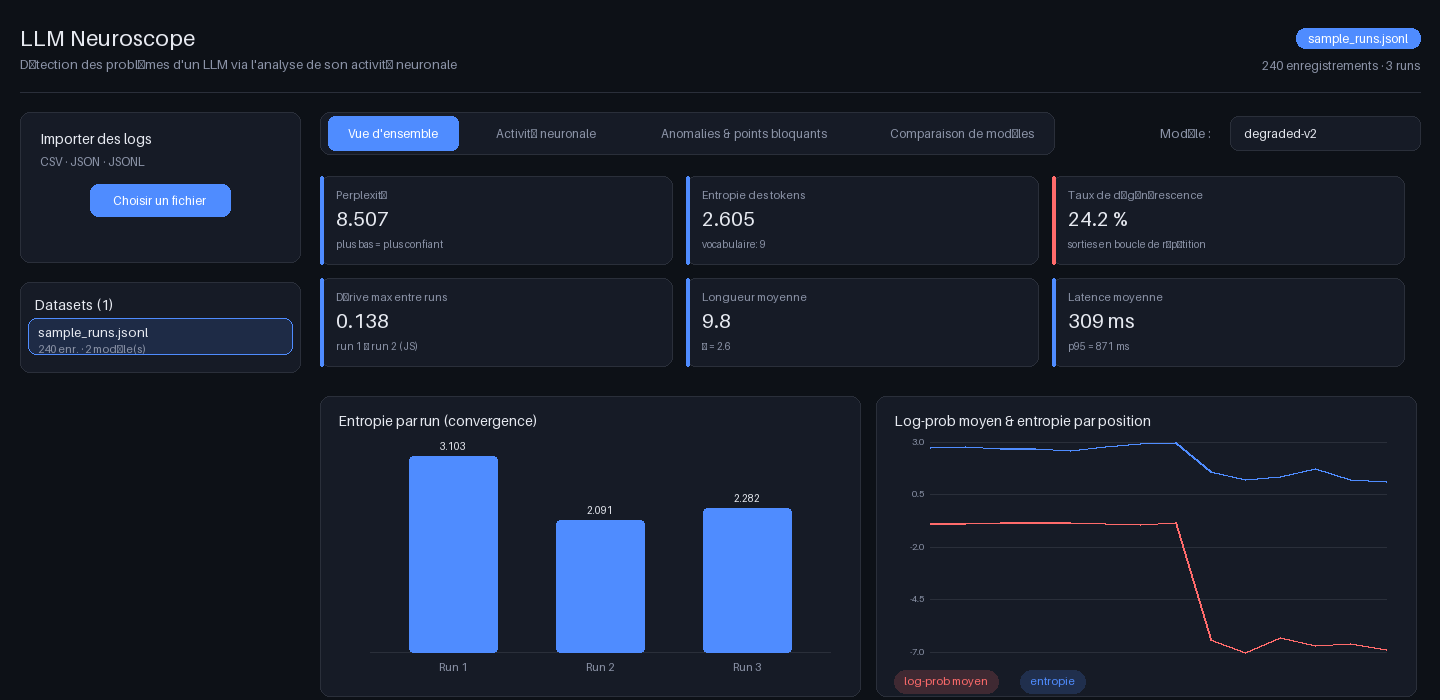
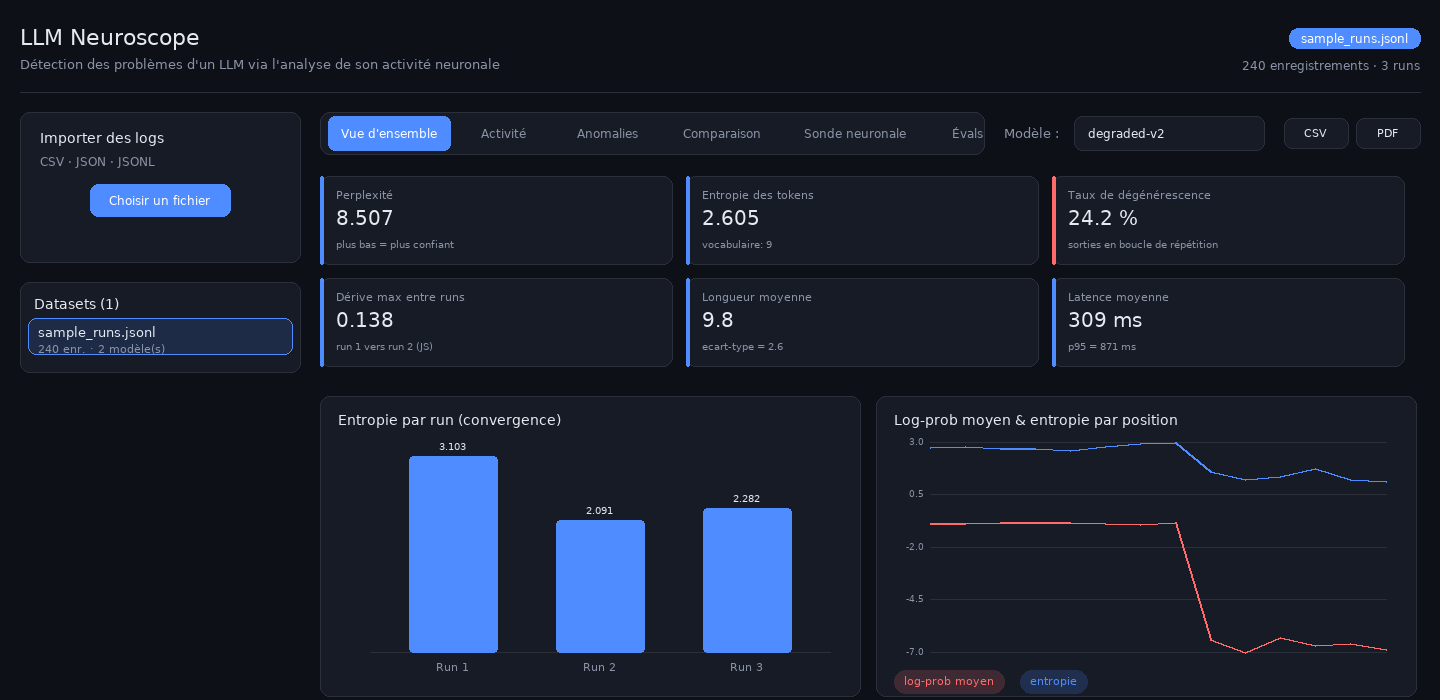
docs: captures d'écran à jour (6 vues) — sonde neuronale, évals, boutons d'export

diff --git a/scripts/render_ui_previews.py b/scripts/render_ui_previews.py
@@ -52,7 +52,17 @@ VERDICT_COLORS = {
 }
 
 
+try:
+    import reportlab
+
+    FONT_PATH = Path(reportlab.__file__).parent / "fonts" / "Vera.ttf"
+except Exception:
+    FONT_PATH = None
+
+
 def font(size):
+    if FONT_PATH and FONT_PATH.exists():
+        return ImageFont.truetype(str(FONT_PATH), size)
     return ImageFont.load_default(size)
 
 
@@ -161,9 +171,9 @@ def sidebar(ui, datasets, active_id):
 
 def tabs_bar(ui, active_index, model, models):
     x, y = 320, 112
-    tab_labels = ["Vue d'ensemble", "Activité neuronale", "Anomalies & points bloquants", "Comparaison de modèles"]
-    widths = [130, 160, 220, 200]
-    ui.panel(x, y, sum(widths) + 24, 42, radius=10)
+    tab_labels = ["Vue d'ensemble", "Activité", "Anomalies", "Comparaison", "Sonde neuronale", "Évals"]
+    widths = [122, 92, 100, 112, 138, 72]
+    ui.panel(x, y, sum(widths) + 28, 42, radius=10)
     cx = x + 8
     for index, (label, w) in enumerate(zip(tab_labels, widths)):
         if index == active_index:
@@ -172,7 +182,13 @@ def tabs_bar(ui, active_index, model, models):
         else:
             ui.text(cx + w / 2, y + 21, label, 12, MUTED, anchor="mm")
         cx += w + 8
-    select_x = W - PAD - 260
+    button_w, button_h = 64, 30
+    pdf_x = W - PAD - button_w
+    csv_x = pdf_x - button_w - 8
+    for bx, label in ((csv_x, "CSV"), (pdf_x, "PDF")):
+        ui.draw.rounded_rectangle([bx, y + 6, bx + button_w, y + 6 + button_h], radius=8, fill=hex_rgb(PANEL), outline=hex_rgb(BORDER))
+        ui.text(bx + button_w / 2, y + 6 + button_h / 2, label, 11, TEXT, anchor="mm")
+    select_x = csv_x - 280
     ui.text(select_x, y + 21, "Modèle :", 13, MUTED, anchor="lm")
     ui.panel(select_x + 70, y + 4, 190, 34, radius=8)
     ui.text(select_x + 84, y + 21, model, 12, anchor="lm")
@@ -269,12 +285,12 @@ def render_overview(data, datasets, ds_id, model):
             (
                 "Dérive max entre runs",
                 f"{a['drift']['max_js']:.3f}",
-                f"run {a['drift']['from_run']} → run {a['drift']['to_run']} (JS)"
+                f"run {a['drift']['from_run']} vers run {a['drift']['to_run']} (JS)"
                 if a["drift"]["to_run"]
                 else "aucune dérive mesurable",
                 WARN if a["drift"]["max_js"] > 0.2 else None,
             ),
-            ("Longueur moyenne", f"{a['length']['mean']:.1f}", f"σ = {a['length']['std']:.1f}", None),
+            ("Longueur moyenne", f"{a['length']['mean']:.1f}", f"ecart-type = {a['length']['std']:.1f}", None),
             ("Latence moyenne", f"{a['latency_ms']['mean']:.0f} ms", f"p95 = {a['latency_ms']['p95']:.0f} ms", None),
         ],
         top,
@@ -444,7 +460,7 @@ def render_compare(data, datasets, ds_id, model):
     ui.text(338, top + 16, "Comparaison de modèles", 14)
     ui.panel(1150, top + 12, 120, 30, radius=8)
     ui.text(1164, top + 27, comparison["model_a"], 11, anchor="lm")
-    ui.text(1282, top + 27, "→", 12, MUTED, anchor="lm")
+    ui.text(1282, top + 27, "vers", 12, MUTED, anchor="lm")
     ui.panel(1300, top + 12, 100, 30, radius=8)
     ui.text(1314, top + 27, comparison["model_b"], 11, anchor="lm")
 
@@ -458,7 +474,7 @@ def render_compare(data, datasets, ds_id, model):
         MUTED,
     )
 
-    headers = ["Métrique", comparison["model_a"], comparison["model_b"], "Δ", "Δ %", "Statut"]
+    headers = ["Métrique", comparison["model_a"], comparison["model_b"], "Écart", "Écart %", "Statut"]
     col_x = [338, 640, 830, 1020, 1110, 1230]
     row_y = top + 100
     for label, cx in zip(headers, col_x):
@@ -474,6 +490,214 @@ def render_compare(data, datasets, ds_id, model):
         pct = row["delta_pct"]
         ui.text(col_x[4], ry, f"{'+' if pct and pct > 0 else ''}{pct} %" if pct is not None else "—", 12)
         ui.badge(col_x[5], ry - 4, STATUS_LABELS[row["status"]], STATUS_COLORS[row["status"]])
+    return ui
+
+
+def render_probe(probe):
+    status = probe["status"]
+    activation = probe["activation"]
+    attention = probe["attention"]
+    attribution = probe["attribution"]
+    patching = probe["patching"]
+    generate = probe["generate"]
+    weights = probe["weights"]
+    ui = Ui(W, 1360)
+    header(ui, "sample_runs.jsonl", 240, 3)
+    sidebar(ui, probe["datasets"], probe["ds_id"])
+    tabs_bar(ui, 4, "stable-v1", ["stable-v1"])
+
+    top = 176
+    ui.panel(320, top, 540, 140)
+    ui.text(338, top + 16, "Modèle chargé", 14)
+    ui.badge(338, top + 42, status["backend"].upper(), ACCENT)
+    ui.badge(338 + 70, top + 42, "MODIFIABLE", GOOD)
+    ui.text(338, top + 84, status["model_name"], 13)
+    ui.text(338, top + 106, f"{status['n_layers']} couches · device {status['device']}", 11, MUTED)
+
+    ui.panel(876, top, 544, 140)
+    ui.text(894, top + 16, "Génération instrumentée", 14)
+    ui.panel(894, top + 40, 380, 30, radius=8)
+    ui.text(908, top + 55, generate["prompt"], 12, anchor="lm")
+    ui.draw.rounded_rectangle([1284, top + 40, 1400, top + 70], radius=8, fill=hex_rgb(ACCENT))
+    ui.text(1342, top + 55, "Générer", 12, "#ffffff", anchor="mm")
+    ui.text(894, top + 90, "".join(generate["tokens"]), 12)
+    ui.badge(894, top + 108, f"perplexité {generate['perplexity']}", ACCENT)
+
+    act_top = top + 160
+    ui.panel(320, act_top, 1100, 200)
+    ui.text(338, act_top + 16, "Analyse d'activation par couche", 14)
+    ui.text(338, act_top + 40, "Ratio de neurones morts et activité maximale, pour un lot de textes de test.", 11, MUTED)
+    for index, layer in enumerate(activation["layers"]):
+        ry = act_top + 70 + index * 32
+        ui.text(338, ry, layer["layer"], 12)
+        bar_x, bar_w = 470, 340
+        ui.draw.rounded_rectangle([bar_x, ry + 2, bar_x + bar_w, ry + 14], radius=6, fill=blend(PANEL, ACCENT, 0.2))
+        fill_w = int(bar_w * min(layer["std"] * 2, 1.0))
+        ui.draw.rounded_rectangle([bar_x, ry + 2, bar_x + fill_w, ry + 14], radius=6, fill=hex_rgb(ACCENT))
+        dead = layer["dead_neuron_ratio"]
+        dead_color = GOOD if dead < 0.2 else (WARN if dead < 0.5 else DANGER)
+        ui.badge(830, ry - 4, f"neurones morts {dead:.0%}", dead_color)
+        tops = " ".join(f"n{n['index']}" for n in layer["top_neurons"][:4])
+        ui.text(1050, ry, f"top: {tops}", 11, MUTED)
+
+    attn_top = act_top + 220
+    ui.panel(320, attn_top, 1100, 250)
+    ui.text(338, attn_top + 16, "Entropie d'attention par couche × tête", 14)
+    ui.text(338, attn_top + 40, "Bleu = tête focalisée · rouge = tête diffuse (attention dispersée).", 11, MUTED)
+    matrix = attention["head_matrix"]
+    max_entropy = attention["max_entropy"] or 1
+    cell_w, cell_h = 120, 32
+    grid_x, grid_y = 380, attn_top + 70
+    for row_index, row in enumerate(matrix):
+        ui.text(grid_x - 10, grid_y + row_index * 36 + 14, f"L{row_index}", 11, MUTED, anchor="rm")
+        for col_index, value in enumerate(row):
+            intensity = value / max_entropy
+            color = blend("#2864c8", "#ff3c28", intensity)
+            ui.draw.rounded_rectangle(
+                [grid_x + col_index * (cell_w + 6), grid_y + row_index * 36,
+                 grid_x + col_index * (cell_w + 6) + cell_w, grid_y + row_index * 36 + cell_h],
+                radius=4, fill=color,
+            )
+            ui.text(grid_x + col_index * (cell_w + 6) + cell_w / 2, grid_y + row_index * 36 + 16,
+                    f"{value:.2f}", 10, "#ffffff", anchor="mm")
+    ui.text(grid_x + 4 * (cell_w + 6) + 24, grid_y + 10, "Têtes les plus diffuses :", 12)
+    for index, head in enumerate(attention["top_heads"][:3]):
+        ry = grid_y + 36 + index * 26
+        ui.badge(grid_x + 4 * (cell_w + 6) + 24, ry, f"L{head['layer']}·T{head['head']}", DANGER)
+        ui.text(grid_x + 4 * (cell_w + 6) + 100, ry + 4, f"entropie {head['entropy']:.2f}", 11, MUTED)
+
+    attr_top = attn_top + 270
+    ui.panel(320, attr_top, 540, 220)
+    ui.text(338, attr_top + 16, f"Attribution des tokens ({attribution['method']})", 14)
+    ui.text(338, attr_top + 40, f"Cible : « {attribution['target_token']} » — contribution de chaque token", 11, MUTED)
+    chip_x, chip_y = 338, attr_top + 70
+    max_abs = max((abs(t["score"]) for t in attribution["tokens"]), default=1) or 1
+    for token in attribution["tokens"]:
+        intensity = abs(token["score"]) / max_abs
+        if token["score"] >= 0:
+            color = blend(PANEL, GOOD, 0.2 + 0.6 * intensity)
+        else:
+            color = blend(PANEL, DANGER, 0.2 + 0.6 * intensity)
+        chip_w = ui.text_width(token["token"], 12) + 20
+        ui.draw.rounded_rectangle([chip_x, chip_y, chip_x + chip_w, chip_y + 30], radius=6, fill=color)
+        ui.text(chip_x + chip_w / 2, chip_y + 15, token["token"], 12, "#ffffff", anchor="mm")
+        chip_x += chip_w + 6
+        if chip_x > 800:
+            chip_x, chip_y = 338, chip_y + 38
+    ui.badge(338, attr_top + 180, "vert = pousse vers la cible", GOOD)
+    ui.badge(338 + 200, attr_top + 180, "rouge = s'oppose", DANGER)
+
+    ui.panel(876, attr_top, 544, 220)
+    ui.text(894, attr_top + 16, "Activation patching (nnsight)", 14)
+    ui.text(894, attr_top + 40, f"Restoration par couche — KL baseline {patching['baseline_kl']:.2f}", 11, MUTED)
+    for index, (restoration, layer_kl) in enumerate(zip(patching["layer_restoration"], patching["layer_kl"])):
+        ry = attr_top + 70 + index * 30
+        critical = index == patching["critical_layer"]
+        color = DANGER if critical else ACCENT
+        ui.text(894, ry, f"couche {index}", 12)
+        bar_x, bar_w = 990, 330
+        ui.draw.rounded_rectangle([bar_x, ry + 2, bar_x + bar_w, ry + 16], radius=7, fill=blend(PANEL, color, 0.25))
+        fill_w = int(bar_w * restoration / 100)
+        ui.draw.rounded_rectangle([bar_x, ry + 2, bar_x + fill_w, ry + 16], radius=7, fill=hex_rgb(color))
+        ui.text(bar_x + bar_w + 10, ry + 2, f"{restoration:.0f} %", 11, color if critical else TEXT)
+    ui.text(894, attr_top + 196, f"Couche critique : #{patching['critical_layer']} (en rouge)", 11, MUTED)
+
+    weight_top = attr_top + 240
+    ui.panel(320, weight_top, 1100, 110)
+    ui.text(338, weight_top + 16, f"Poids — {weights['layer']}  (shape {weights['shape'][0]} × {weights['shape'][1]})", 14)
+    ui.badge(900, weight_top + 14, f"std {weights['std']:.4f}", ACCENT)
+    ui.badge(1010, weight_top + 14, f"min {weights['min']:.4f}", MUTED)
+    ui.badge(1110, weight_top + 14, f"max {weights['max']:.4f}", MUTED)
+    counts = weights["histogram"]["counts"]
+    edges = weights["histogram"]["edges"]
+    max_count = max(counts) or 1
+    hist_x, hist_y, hist_h, hist_w = 338, weight_top + 50, 44, 1044
+    bin_w = hist_w / len(counts)
+    for index, count in enumerate(counts):
+        bar_h = count / max_count * hist_h
+        ui.draw.rectangle(
+            [hist_x + index * bin_w, hist_y + hist_h - bar_h, hist_x + (index + 1) * bin_w - 2, hist_y + hist_h],
+            fill=hex_rgb(ACCENT),
+        )
+    ui.text(hist_x, hist_y + 8, f"{edges[0]:.3f}", 9, MUTED)
+    ui.text(hist_x + hist_w, hist_y + 8, f"{edges[-1]:.3f}", 9, MUTED, anchor="ra")
+    return ui
+
+
+def render_evals(evals):
+    benchmark = evals["benchmark"]
+    quality = evals["quality"]
+    langfuse = evals["langfuse"]
+    ui = Ui(W, 760)
+    header(ui, "sample_runs.jsonl", 240, 3)
+    sidebar(ui, evals["datasets"], evals["ds_id"])
+    tabs_bar(ui, 5, "stable-v1", ["stable-v1"])
+
+    top = 176
+    ui.panel(320, top, 540, 300)
+    ui.text(338, top + 16, "Benchmark standardisé (lm-evaluation-harness)", 14)
+    chip_x, chip_y = 338, top + 46
+    for task, active in (("lambada_openai", True), ("hellaswag", False), ("arc_easy", False)):
+        chip_w = ui.text_width(task, 11) + 20
+        fill = ACCENT if active else PANEL
+        outline = ACCENT if active else BORDER
+        ui.draw.rounded_rectangle([chip_x, chip_y, chip_x + chip_w, chip_y + 26], radius=13,
+                                  fill=blend(PANEL, ACCENT, 0.2) if active else hex_rgb(PANEL), outline=hex_rgb(outline))
+        ui.text(chip_x + chip_w / 2, chip_y + 13, task, 11, "#ffffff" if active else MUTED, anchor="mm")
+        chip_x += chip_w + 6
+    ui.text(338, top + 90, f"Moteur : {benchmark['engine']} · limite {benchmark['limit']} exemples / tâche", 11, MUTED)
+    headers = ["Tâche", "Métrique", "Valeur", "Erreur std"]
+    col_x = [338, 520, 660, 750]
+    row_y = top + 120
+    for label, cx in zip(headers, col_x):
+        ui.text(cx, row_y, label, 11, MUTED)
+    ui.draw.line([338, row_y + 20, 840, row_y + 20], fill=hex_rgb(BORDER))
+    index = 0
+    for task, metrics in benchmark["tasks"].items():
+        for metric, value in metrics.items():
+            ry = row_y + 32 + index * 34
+            ui.text(col_x[0], ry, task, 12)
+            ui.text(col_x[1], ry, metric, 12)
+            ui.text(col_x[2], ry, f"{value:.4f}", 12)
+            stderr = metrics.get(f"{metric}_stderr")
+            ui.text(col_x[3], ry, f"± {stderr:.4f}" if stderr is not None else "—", 12)
+            index += 1
+
+    ui.panel(876, top, 544, 300)
+    ui.text(894, top + 16, "Qualité des sorties (DeepEval + heuristiques)", 14)
+    ui.panel(894, top + 42, 360, 30, radius=8)
+    ui.ellipsis(908, top + 57, 330, quality["texts"][0]["text"], 12)
+    ui.draw.rounded_rectangle([1264, top + 42, 1400, top + 72], radius=8, fill=hex_rgb(ACCENT))
+    ui.text(1332, top + 57, "Évaluer", 12, "#ffffff", anchor="mm")
+    ui.badge(894, top + 84, "juge : local (Qwen 1.5B)", ACCENT)
+    headers = ["Texte", "PPL", "Répét.", "Score"]
+    col_x = [894, 1240, 1300, 1360]
+    row_y = top + 120
+    for label, cx in zip(headers, col_x):
+        ui.text(cx, row_y, label, 11, MUTED)
+    ui.draw.line([894, row_y + 20, 1400, row_y + 20], fill=hex_rgb(BORDER))
+    scores = [0.8, 0.4, 0.6]
+    for index, item in enumerate(quality["texts"][:3]):
+        ry = row_y + 32 + index * 34
+        ui.ellipsis(col_x[0], ry, 320, item["text"], 12)
+        ui.text(col_x[1], ry, f"{item['perplexity']:.1f}", 12)
+        ui.text(col_x[2], ry, f"{item['repetition_ratio']:.2f}", 12)
+        score = scores[index % len(scores)]
+        score_color = GOOD if score >= 0.5 else DANGER
+        ui.badge(col_x[3], ry - 4, f"{score:.1f}", score_color)
+    aggregate = quality["aggregate"]
+    ui.badge(894, top + 264, f"PPL moy. {aggregate['perplexity']:.1f}", ACCENT)
+    ui.badge(1020, top + 264, f"répétition {aggregate['repetition_ratio']:.2f}", WARN)
+    ui.badge(1180, top + 264, f"diversité {aggregate['distinct_ratio']:.2f}", GOOD)
+
+    lgf_top = top + 320
+    ui.panel(320, lgf_top, 1100, 110)
+    ui.text(338, lgf_top + 16, "Export des traces vers Langfuse", 14)
+    ui.badge(338, lgf_top + 44, langfuse["mode"].upper(), ACCENT)
+    ui.text(430, lgf_top + 55, f"{langfuse['n_traces']} traces exportées", 12)
+    ui.text(338, lgf_top + 78, langfuse["path"], 11, MUTED)
+    ui.panel(1150, lgf_top + 14, 250, 34, radius=8)
+    ui.text(1164, lgf_top + 31, "Pousser vers Langfuse", 11, MUTED, anchor="lm")
     return ui
 
 
@@ -512,10 +736,45 @@ def main():
         ),
     }
 
+    def post(path, payload):
+        return httpx.post(f"{api_base}/api{path}", timeout=120, json=payload).json()
+
+    post("/probe/load", {"model_name": "mock-transformer", "device": "cpu"})
+    activation = post("/probe/analyze-texts", {"texts": ["Paris est la capitale de la France", "Le chat dort sur le tapis au soleil", "Explique la photosynthese en une phrase"]})
+    attention = post("/probe/attention", {"texts": ["Paris est la capitale de la France"]})
+    attribution = post("/probe/attribution", {"text": "Paris est la capitale de la France", "method": "integrated-gradients"})
+    patching = post("/probe/patching", {"clean_text": "Paris est la capitale de la France", "corrupted_text": "Paris est la capitale de l'Italie"})
+    generate = post("/probe/generate", {"prompt": "Paris est la", "max_new_tokens": 6})
+    weights = httpx.get(f"{api_base}/api/probe/weights/layer_0.mlp", timeout=30).json()
+    probe_data = {
+        "datasets": datasets,
+        "ds_id": ds_id,
+        "status": httpx.get(f"{api_base}/api/probe/status", timeout=30).json(),
+        "activation": activation,
+        "attention": attention,
+        "attribution": attribution,
+        "patching": patching,
+        "generate": generate,
+        "weights": weights,
+    }
+
+    benchmark = post("/evals/benchmark", {"model_name": model, "tasks": ["lambada_openai"], "limit": 5})
+    quality = post("/evals/quality", {"texts": ["Paris est la capitale de la France, un pays d'Europe occidentale.", "le le le le le le le le le le le le le le le"]})
+    langfuse = post("/evals/langfuse", {"dataset_id": ds_id, "model": model})
+    evals_data = {
+        "datasets": datasets,
+        "ds_id": ds_id,
+        "benchmark": benchmark,
+        "quality": quality,
+        "langfuse": langfuse,
+    }
+
     render_overview(data, datasets, ds_id, model).save(output_dir / "01-overview.png")
     render_heatmap(data, datasets, ds_id, model).save(output_dir / "02-heatmap.png")
     render_anomalies(data, datasets, ds_id, model).save(output_dir / "03-anomalies.png")
     render_compare(data, datasets, ds_id, model).save(output_dir / "04-compare.png")
+    render_probe(probe_data).save(output_dir / "05-probe.png")
+    render_evals(evals_data).save(output_dir / "06-evals.png")
     httpx.delete(f"{api_base}/api/datasets/{ds_id}", timeout=30)
 
 

diff --git a/README.md b/README.md
@@ -18,11 +18,11 @@ Convergence · Dérive · Anomalies · Points bloquants · Poids & activations
 
 ## 📸 Aperçu
 
-| Vue d'ensemble | Activité neuronale |
-|:---:|:---:|
-| ![Vue d'ensemble](docs/screenshots/01-overview.png) | ![Heatmap](docs/screenshots/02-heatmap.png) |
-| **Anomalies & points bloquants** | **Comparaison de modèles** |
-| ![Anomalies](docs/screenshots/03-anomalies.png) | ![Comparaison](docs/screenshots/04-compare.png) |
+| Vue d'ensemble | Activité neuronale | Anomalies & points bloquants |
+|:---:|:---:|:---:|
+| ![Vue d'ensemble](docs/screenshots/01-overview.png) | ![Heatmap](docs/screenshots/02-heatmap.png) | ![Anomalies](docs/screenshots/03-anomalies.png) |
+| **Comparaison de modèles** | **Sonde neuronale** | **Évals & benchmarks** |
+| ![Comparaison](docs/screenshots/04-compare.png) | ![Sonde neuronale](docs/screenshots/05-probe.png) | ![Évals](docs/screenshots/06-evals.png) |
 
 ## ✨ Fonctionnalités
 
